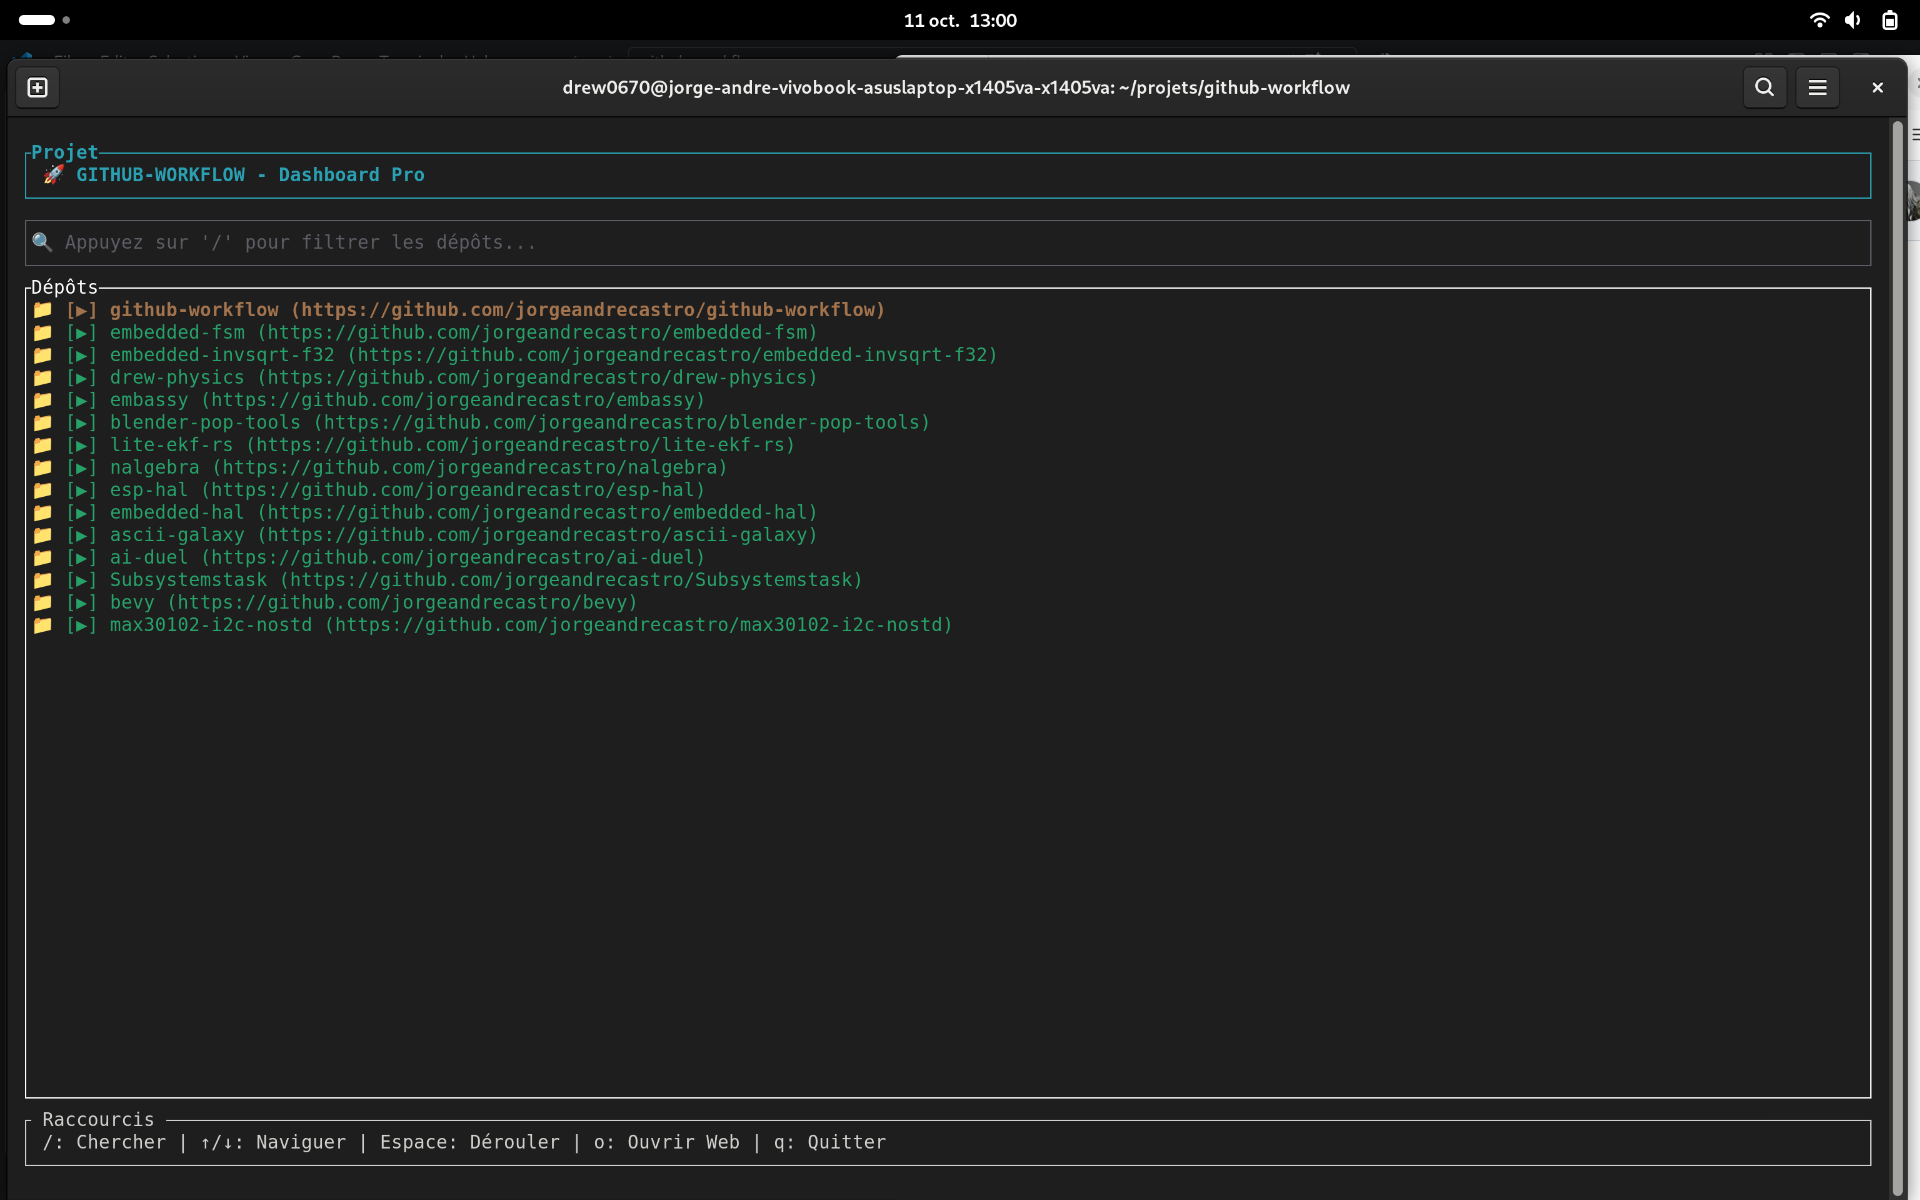
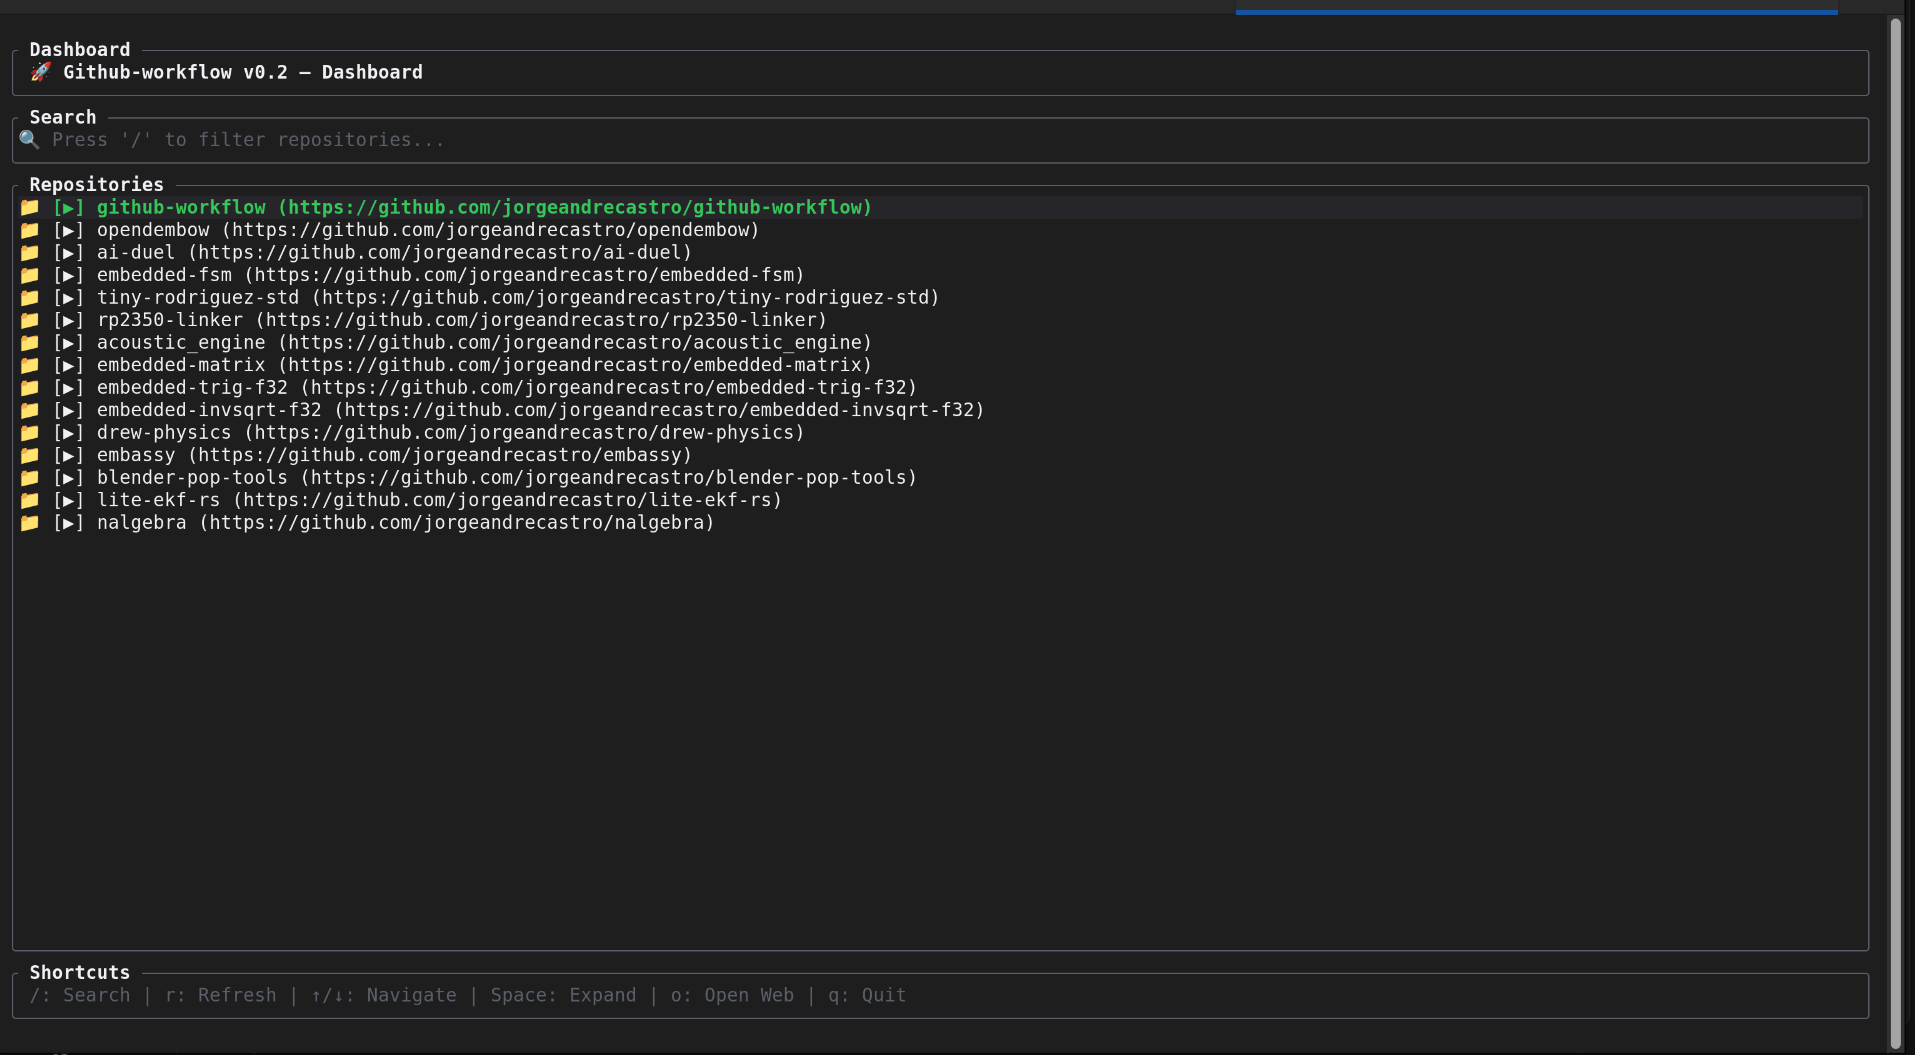
version 0.2 is out git add .!

Changed region(s): [[0.0, 0.0, 1.0, 1.0], [0.4621, 0.5156, 0.493, 0.546]]

diff --git a/src/github.rs b/src/github.rs
@@ -10,9 +10,11 @@ struct CheckSuiteResponse {
 
 #[derive(Deserialize)]
 struct CheckSuite {
+    status: Option<String>,
     conclusion: Option<String>,
 }
 
+/// Fetches the authenticated user's recent repositories.
 pub fn fetch_repos(client: &Client, token: &str) -> Vec<Repository> {
     let url = "https://api.github.com/user/repos?per_page=15&sort=updated";
     let res = client
@@ -22,11 +24,14 @@ pub fn fetch_repos(client: &Client, token: &str) -> Vec<Repository> {
         .send();
 
     match res {
-        Ok(response) if response.status().is_success() => response.json().unwrap_or_default(),
+        Ok(response) if response.status().is_success() => {
+            response.json::<Vec<Repository>>().unwrap_or_default()
+        }
         _ => vec![],
     }
 }
 
+/// Fetches branch details, recent commits, open pull requests, and CI/CD status in parallel.
 pub fn fetch_branch_details(
     client: &Client,
     token: &str,
@@ -34,7 +39,7 @@ pub fn fetch_branch_details(
     repo_name: &str,
 ) -> Vec<BranchInfo> {
     let branches_url = format!(
-        "https://api.github.com/repos/{}/{}/branches",
+        "https://api.github.com/repos/{}/{}/branches?per_page=10",
         owner, repo_name
     );
     let res = client
@@ -48,7 +53,7 @@ pub fn fetch_branch_details(
         _ => return vec![],
     };
 
-    // Utilisation d'un scope de threads pour exécuter les requêtes en parallèle
+    // Parallel fetch via scoped threads
     let results: Vec<BranchInfo> = thread::scope(|s| {
         let handles: Vec<_> = branches
             .into_iter()
@@ -61,7 +66,7 @@ pub fn fetch_branch_details(
                 s.spawn(move || {
                     let branch_name = &branch.name;
 
-                    // 1. Commits récents
+                    // 1. Fetch recent commits
                     let commits_url = format!(
                         "https://api.github.com/repos/{}/{}/commits?sha={}&per_page=2",
                         owner_ref, repo_ref, branch_name
@@ -74,7 +79,7 @@ pub fn fetch_branch_details(
                         .and_then(|r| r.json())
                         .unwrap_or_default();
 
-                    // 2. Pull Requests associées
+                    // 2. Fetch open Pull Requests
                     let prs_url = format!(
                         "https://api.github.com/repos/{}/{}/pulls?head={}:{}&state=open",
                         owner_ref, repo_ref, owner_ref, branch_name
@@ -87,12 +92,13 @@ pub fn fetch_branch_details(
                         .and_then(|r| r.json())
                         .unwrap_or_default();
 
-                    // 3. Statut CI/CD
+                    // 3. Fetch CI/CD status
                     let ci_url = format!(
                         "https://api.github.com/repos/{}/{}/check-suites?ref={}",
                         owner_ref, repo_ref, branch_name
                     );
                     let mut ci_status = "unknown".to_string();
+
                     if let Ok(resp) = client_ref
                         .get(&ci_url)
                         .header("User-Agent", "github-workflow-rust")
@@ -104,6 +110,8 @@ pub fn fetch_branch_details(
                                 if let Some(suite) = ci_data.check_suites.first() {
                                     if let Some(conclusion) = &suite.conclusion {
                                         ci_status = conclusion.clone();
+                                    } else if let Some(status) = &suite.status {
+                                        ci_status = status.clone(); // In-progress build status
                                     }
                                 }
                             }
@@ -120,7 +128,7 @@ pub fn fetch_branch_details(
             })
             .collect();
 
-        handles.into_iter().map(|h| h.join().unwrap()).collect()
+        handles.into_iter().filter_map(|h| h.join().ok()).collect()
     });
 
     results

diff --git a/src/main.rs b/src/main.rs
@@ -262,9 +262,9 @@ fn main() -> Result<(), Box<dyn std::error::Error>> {
 
             f.render_stateful_widget(list, chunks[2], &mut list_state);
 
-            // Help / Shortcuts
+            // Help / Shortcuts (Updated to include 'r: Refresh')
             let help = Paragraph::new(
-                " /: Search | ↑/↓: Navigate | Space: Expand | o: Open Web | q: Quit ",
+                " /: Search | r: Refresh | ↑/↓: Navigate | Space: Expand | o: Open Web | q: Quit ",
             )
             .style(Style::default().fg(Theme::SUBTLE))
             .block(Theme::block("Shortcuts"));
@@ -302,6 +302,44 @@ fn main() -> Result<(), Box<dyn std::error::Error>> {
                         }
                         KeyCode::Char('/') => {
                             search_mode = true;
+                        }
+                        // Added asynchronous refresh handler for 'r' key
+                        KeyCode::Char('r') => {
+                            if let Some(selected) = list_state.selected() {
+                                if let Some((display_item, _)) = display_map.get(selected) {
+                                    let repo_idx = match display_item {
+                                        DisplayItem::Repo { repo_idx }
+                                        | DisplayItem::Branch { repo_idx, .. }
+                                        | DisplayItem::Commit { repo_idx, .. }
+                                        | DisplayItem::PullRequest { repo_idx, .. } => *repo_idx,
+                                        _ => usize::MAX,
+                                    };
+
+                                    if repo_idx < items_guard.len() {
+                                        let item = &mut items_guard[repo_idx];
+                                        item.branches_state = BranchState::Loading;
+
+                                        let client_clone = client.clone();
+                                        let token_clone = token.clone();
+                                        let owner = item.repo.owner.login.clone();
+                                        let repo_name = item.repo.name.clone();
+                                        let repo_items_clone = Arc::clone(&repo_items);
+                                        let target_idx = repo_idx;
+
+                                        thread::spawn(move || {
+                                            let branch_infos = github::fetch_branch_details(
+                                                &client_clone,
+                                                &token_clone,
+                                                &owner,
+                                                &repo_name,
+                                            );
+                                            let mut guard = repo_items_clone.lock().unwrap();
+                                            guard[target_idx].branches_state =
+                                                BranchState::Loaded(branch_infos);
+                                        });
+                                    }
+                                }
+                            }
                         }
                         KeyCode::Down => {
                             if let Some(selected) = list_state.selected() {

diff --git a/src/models.rs b/src/models.rs
@@ -1,61 +1,72 @@
 use serde::Deserialize;
 
-#[derive(Deserialize, Debug, Clone)]
+/// Represents a GitHub repository.
+#[derive(Deserialize, Debug, Clone, PartialEq)]
 pub struct Repository {
     pub name: String,
     pub owner: Owner,
     pub html_url: String,
 }
 
-#[derive(Deserialize, Debug, Clone)]
+/// Represents the owner of a repository.
+#[derive(Deserialize, Debug, Clone, PartialEq)]
 pub struct Owner {
     pub login: String,
 }
 
-#[derive(Deserialize, Debug, Clone)]
+/// Represents a Git branch.
+#[derive(Deserialize, Debug, Clone, PartialEq)]
 pub struct Branch {
     pub name: String,
 }
 
-#[derive(Deserialize, Debug, Clone)]
+/// Wrapper for commit data from GitHub API.
+#[derive(Deserialize, Debug, Clone, PartialEq)]
 pub struct CommitWrapper {
     pub sha: String,
     pub commit: CommitDetails,
 }
 
-#[derive(Deserialize, Debug, Clone)]
+/// Details of a specific commit.
+#[derive(Deserialize, Debug, Clone, PartialEq)]
 pub struct CommitDetails {
     pub message: String,
 }
 
-#[derive(Deserialize, Debug, Clone)]
+/// Represents an open Pull Request.
+#[derive(Deserialize, Debug, Clone, PartialEq)]
 pub struct PullRequest {
     pub title: String,
     pub html_url: String,
 }
 
-#[derive(Clone)]
+/// State of branch loading for a repository (Lazy Loading).
+#[derive(Clone, Debug, PartialEq)]
 pub enum BranchState {
     NotLoaded,
     Loading,
     Loaded(Vec<BranchInfo>),
 }
 
-#[derive(Clone)]
+/// Detailed information about a branch including commits, PRs, and CI status.
+#[derive(Clone, Debug, PartialEq)]
 pub struct BranchInfo {
     pub branch: Branch,
     pub commits: Vec<CommitWrapper>,
     pub prs: Vec<PullRequest>,
-    pub ci_status: String, // "success", "failure", ou "unknown"
+    pub ci_status: String, // "success", "failure", "in_progress", or "unknown"
 }
 
-#[derive(Clone)]
+/// Represents a repository item in the TUI state.
+#[derive(Clone, Debug, PartialEq)]
 pub struct RepoItem {
     pub repo: Repository,
     pub is_expanded: bool,
     pub branches_state: BranchState,
 }
 
+/// Maps the flattened TUI list items back to their original hierarchical data source.
+#[derive(Debug, Clone, Copy, PartialEq, Eq)]
 pub enum DisplayItem {
     Repo {
         repo_idx: usize,

diff --git a/Readme.md b/Readme.md
@@ -13,7 +13,6 @@
 <br>
 <img src="images/image2.png" alt="github-workflow demo" width="800"/>
 
-
 </div>
 
 ---
@@ -28,8 +27,9 @@ Switching between your terminal, browser, and GitHub just to check a pull reques
 | --- | --- |
 | ⚡ **Responsive interface** | Rust-powered background workers keep the UI responsive during API calls. |
 | 📂 **On-demand loading** | Repositories load first; branches, commits, and pull requests are fetched as you explore. |
-| 🔎 **Live filtering** | Press `/` to filter repositories by name. |
-| ✅ **CI/CD status** | Check status indicators appear alongside branches. |
+| 🔄 **On-the-fly refresh** | Press `r` to asynchronously reload data for any selected repository. |
+| 🔎 **Live filtering** | Press `/` to filter repositories by name in real time. |
+| ✅ **CI/CD status** | Real-time status indicators (success, failure, in-progress) alongside branches. |
 | 🔀 **Pull request overview** | See open pull requests associated with your branches. |
 | 🌐 **Open in browser** | Press `o` on a repository, branch, pull request, or commit to open it on GitHub. |
 
@@ -38,7 +38,7 @@ Switching between your terminal, browser, and GitHub just to check a pull reques
 ### Prerequisites
 
 - [Rust toolchain](https://www.rust-lang.org/tools/install)
-- A GitHub Personal Access Token (PAT) with the required repository read access
+- A GitHub Personal Access Token (PAT) with required repository read access
 
 ### Install and run
 
@@ -60,6 +60,7 @@ Switching between your terminal, browser, and GitHub just to check a pull reques
    ```bash
    cargo run --release
    ```
+
 ## Download & Run (No Rust required)
 
 If you don't have Rust installed and just want to test the binary directly:
@@ -88,9 +89,10 @@ If you don't have Rust installed and just want to test the binary directly:
 
 | Key | Action |
 | --- | --- |
-| `↑` / `↓` | Navigate repositories, branches, and commits |
+| `↑` / `↓` | Navigate repositories, branches, pull requests, and commits |
 | `Space` / `Enter` | Expand or collapse the repository tree |
 | `/` | Filter repositories by name |
+| `r` | Refresh the selected repository asynchronously |
 | `o` | Open the selected item in your browser |
 | `q` / `Esc` | Quit the application |
 

diff --git a/CHANGELOG.md b/CHANGELOG.md
@@ -1,0 +1,30 @@
+### 📄 `CHANGELOG.md`
+
+```markdown
+# Changelog
+
+All notable changes to the **github-workflow** project will be documented in this file.
+
+The format is based on [Keep a Changelog](https://keepachangelog.com/en/1.0.0/),
+and this project adheres to [Semantic Versioning](https://semver.org/spec/v2.0.0.html).
+
+---
+
+## [0.2.0] - 2026-02-23
+
+### Added
+- **Asynchronous Data Refresh (`r`)**: Added the ability to manually trigger a background refresh for any selected repository without blocking the UI.
+- **Enhanced CI/CD State Detection**: Added support for intermediate `status` states (e.g., `in_progress` builds) alongside final `conclusion` statuses.
+- **Improved Visual Theme**: Transitioned navigation highlight color to high-contrast green (`Theme::SUCCESS`) over anthracite background for superior contrast and readability.
+- **Code Documentation**: Added Rust docstrings (`///`) across all structural data models in `src/models.rs`.
+
+### Changed
+- **API Pagination Limits**: Added `per_page=10` query parameter when fetching branch details to prevent hitting GitHub REST API rate limits under heavy multi-threading.
+- **Codebase Standardization**: Standardized all internal comments, log messages, variable names, and UI elements to clean English.
+- **UI Header Branding**: Updated dashboard header to reflect version `v0.2`.
+
+### Fixed
+- **Compiler Health**: Addressed all `dead_code` warnings regarding unused theme constants using explicit `#[allow(dead_code)]` annotations.
+- **Thread Safety & Panic Prevention**: Replaced direct `.join().unwrap()` calls with `.filter_map(|h| h.join().ok())` during parallel scoped thread execution.
+- **Safe JSON Deserialization**: Replaced potentially unsafe response unwrap patterns with typed `response.json::<T>()` handling.
+
